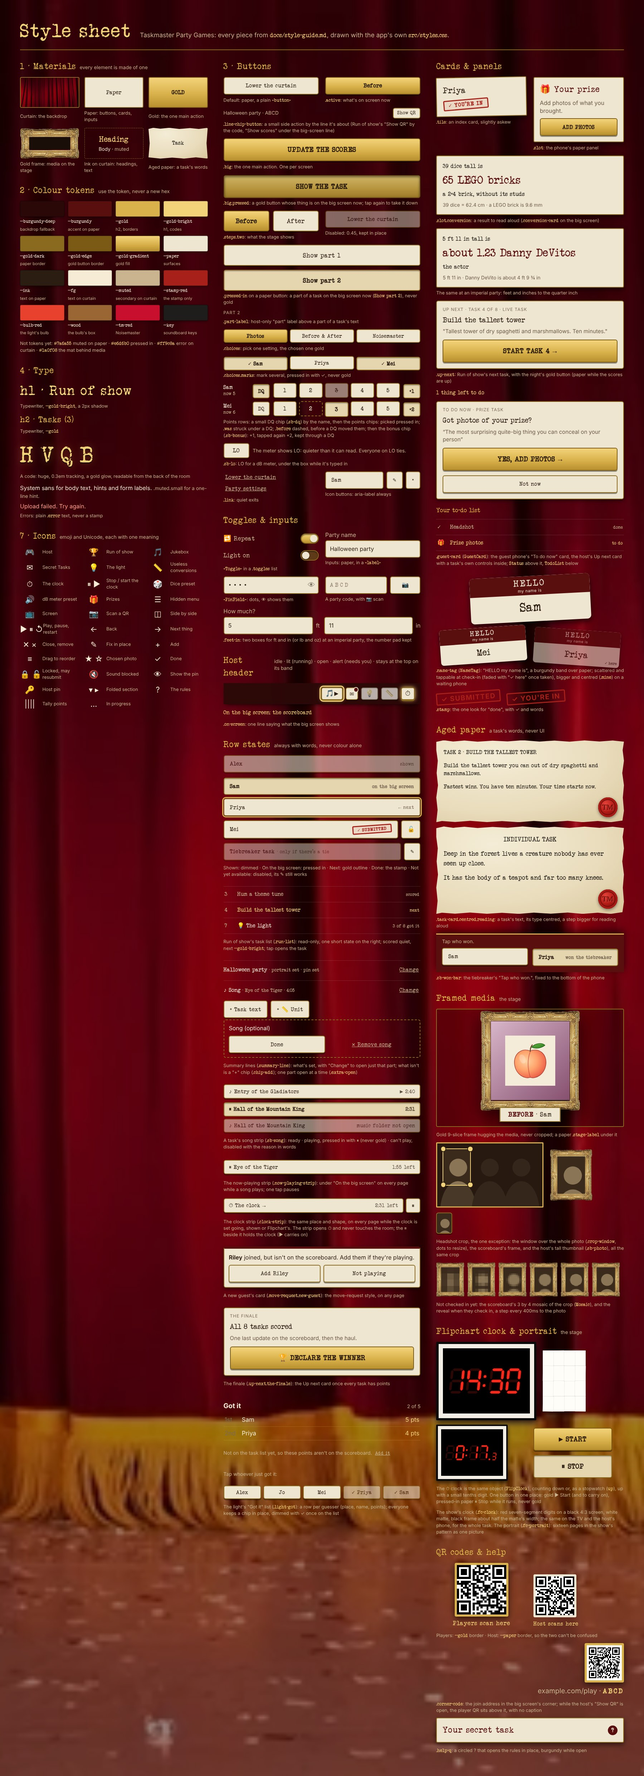
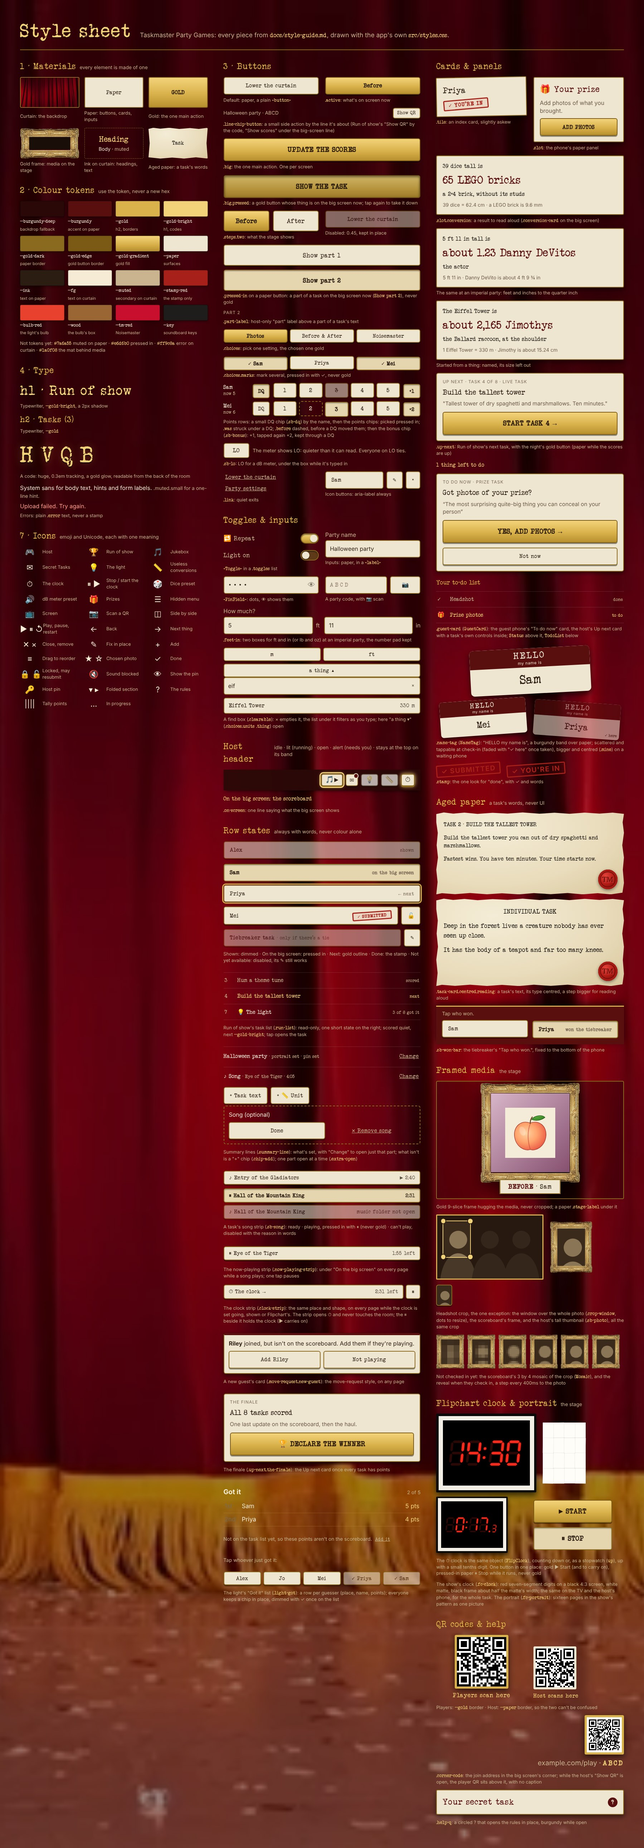
Useless conversions: start from a thing, found by typing
"a thing ▾" under the units opens a find box and the kind's useless units, each with its size. Picking one makes
"How much?" a count, and the card names it without its size: "The Eiffel Tower is / about 2,165 Jimothys". A thing is
never converted into itself. Adds the find box to the style guide and sheet, re-shoots the screens, and parks a find
box for the jukebox as E9 in the backlog.

Claude-Session: https://claude.ai/code/session_01KQobWXFnZT59zibViTWasP

diff --git a/src/conversions/ConverterRemote.tsx b/src/conversions/ConverterRemote.tsx
@@ -3,11 +3,15 @@ import { scored, sorted, titleOf } from "../scoreboard/tasks";
 import { showConversion, store } from "../session";
 import { Toggle } from "../Toggle";
 import type { Session } from "../types";
-import { COMMON, commonFor, feetAndInches, firstUnit, ofSystem, type System, KIND_LABEL, KINDS, matchFor, poundsAndOunces, rank, say, toAnchor, working, type Match } from "./convert";
+import { COMMON, commonFor, feetAndInches, firstUnit, ofSystem, type System, KIND_LABEL, KINDS, matchFor, poundsAndOunces, rank, say, sizeText, toAnchor, working, type Match } from "./convert";
 import { UNITS, type Kind } from "./units";
 
 const UNIT_KEY = "ba.convertUnit";
-type Source = { task: string } | { kind: Kind; unit: string };
+/** A task's unit, a common unit, or a useless unit itself (`thing`, its `many`): "2 Eiffel Towers". */
+type Source = { task: string } | { kind: Kind; unit: string; thing?: string };
+
+/** For finding a thing by name: lower case, without accents, so "timothee" finds Timothée Chalamet. */
+const plain = (s: string) => s.normalize("NFD").replace(/[\u0300-\u036f]/g, "").toLowerCase();
 
 /**
  * The last common unit this phone measured in ("height:cm"), so a run of the same task is one tap each. A unit from
@@ -35,37 +39,44 @@ export function ConverterRemote({ code, session }: { code: string; session: Sess
   };
   const [typed, setTyped] = useState("");
   const [typedIn, setTypedIn] = useState("");
+  // The list of things to start from, and what's typed to find one.
+  const [finding, setFinding] = useState(false);
+  const [find, setFind] = useState("");
 
   const taskUnit = "task" in source ? session.scoreboard?.tasks?.[source.task]?.unit : undefined;
   // A task whose unit was removed falls back to the common units.
   const common = "unit" in source ? source : lastCommon(session.units);
+  const thing = !taskUnit && "thing" in source ? UNITS[common.kind].find((u) => u.many === source.thing) : undefined;
   // At an imperial party, feet come with an inches box (5 ft 11 in, the way a height is said: a phone's number pad has
   // no ' or "), and pounds with an ounces box (1 lb 8 oz).
-  const split = session.units !== "imperial" || taskUnit ? undefined
+  const split = session.units !== "imperial" || taskUnit || thing ? undefined
     : common.unit === "ft" ? { small: "in", per: 12, hint: ["5", "11"] } : common.unit === "lb" ? { small: "oz", per: 16, hint: ["1", "8"] } : undefined;
   const amount = Number(typed.replace(",", ".")) + (split ? Number(typedIn.replace(",", ".")) / split.per : 0);
   const kind: Kind = taskUnit?.kind ?? common.kind;
   // Abbreviations read the same for any number ("2 kg"); "cup" is the one word among them.
-  const label = taskUnit?.name ?? (common.unit === "cup" && amount !== 1 ? "cups" : common.unit);
-  const anchor = taskUnit ? toAnchor(amount * taskUnit.amount, taskUnit.unit) : toAnchor(amount, common.unit);
+  const label = thing ? (amount === 1 ? thing.one : thing.many) : taskUnit?.name ?? (common.unit === "cup" && amount !== 1 ? "cups" : common.unit);
+  const anchor = thing ? amount * thing.size : taskUnit ? toAnchor(amount * taskUnit.amount, taskUnit.unit) : toAnchor(amount, common.unit);
   const ready = (typed.trim() !== "" || (!!split && typedIn.trim() !== "")) && amount > 0 && isFinite(anchor);
 
   // Each "Surprise me" steps down the ranking; a new measurement starts it again.
-  const key = `${kind}:${anchor}`;
-  const ranked = useMemo(() => (ready ? rank(kind, anchor) : []), [key, ready]);
+  // A thing is never measured in itself ("1 Eiffel Tower is exactly 1 Eiffel Tower").
+  const key = `${kind}:${anchor}:${thing?.many ?? ""}`;
+  const ranked = useMemo(() => (ready ? rank(kind, anchor).filter((m) => m.unit !== thing) : []), [key, ready]);
   const [at, setAt] = useState(-1);
   const [picked, setPicked] = useState<Match>();
   const [choosing, setChoosing] = useState(false);
   useEffect(() => { setAt(-1); setPicked(undefined); setChoosing(false); }, [key]);
   const match = picked ?? ranked[at];
   // Read out in the smaller unit, so 0 ft 8 in is "8 in", and 5 ft 11 in stays "5 ft 11 in".
-  const said = match && (split ? say(kind, amount * split.per, split.small, match, session.units) : say(kind, amount, label, match, session.units));
+  const said = match && (split ? say(kind, amount * split.per, split.small, match, session.units) : say(kind, amount, label, match, session.units, thing));
 
   // While it's on the big screen, the big screen follows the host's result.
   const onScreen = !!session.conversion;
   useEffect(() => {
     if (onScreen && said && (said.main !== session.conversion?.main || said.lead !== session.conversion?.lead)) void showConversion(code, said);
   }, [onScreen, said?.lead, said?.main]);
+
+  const found = UNITS[kind].filter((u) => [u.one, u.many].some((n) => plain(n).includes(plain(find.trim()))));
 
   const surprise = () => { setPicked(undefined); setChoosing(false); setAt((a) => (a + 1) % ranked.length); };
 
@@ -96,10 +107,38 @@ export function ConverterRemote({ code, session }: { code: string; session: Sess
       {/* While a task's unit is in use, the common units stay where they are, dimmed, until one is tapped. */}
       <div className={`choices units${taskUnit ? " idle" : ""}`}>
         {commonFor(kind, session.units).map((u) => {
-          const on = !taskUnit && common.unit === u;
+          const on = !taskUnit && !thing && common.unit === u;
           return <button key={u} className={on ? "active" : ""} aria-pressed={on} onClick={() => setSource({ kind, unit: u })}>{u}</button>;
         })}
+        {/* Or start from a useless unit: its own row, since a name is longer than a unit. */}
+        <button className={`thing${thing ? " active" : ""}`} aria-pressed={!!thing} aria-expanded={finding} onClick={() => setFinding(!finding)}>
+          {thing ? thing.one : "a thing"} {finding ? "▴" : "▾"}
+        </button>
       </div>
+      {finding && (
+        <div className="find-thing">
+          <div className="clearable">
+            <input value={find} onChange={(e) => setFind(e.target.value)} placeholder="Find a thing…" aria-label="Find a thing" enterKeyHint="search" autoFocus />
+            {find && <button type="button" aria-label="Clear find a thing" onClick={() => setFind("")}>×</button>}
+          </div>
+          <ul className="tracklist">
+            {found.map((u) => (
+              <li key={u.many}>
+                <button className={thing === u ? "active" : ""} onClick={() => {
+                  setSource({ kind, unit: common.kind === kind ? common.unit : firstUnit(kind, session.units), thing: u.many });
+                  setTyped("1");
+                  setTypedIn("");
+                  setFinding(false);
+                  setFind("");
+                }}>
+                  <span className="title">{u.one}</span><span className="dur">{sizeText(kind, u, session.units)}</span>
+                </button>
+              </li>
+            ))}
+          </ul>
+          {!found.length && <p className="muted">Nothing called that in {KIND_LABEL[kind].toLowerCase()}.</p>}
+        </div>
+      )}
       {split ? (
         <div className="feet-in">
           <span>How much?</span>
@@ -121,7 +160,7 @@ export function ConverterRemote({ code, session }: { code: string; session: Sess
           <button className="link" aria-expanded={choosing} onClick={() => setChoosing(!choosing)}>Use a different unit {choosing ? "▴" : "▾"}</button>
           {choosing && (
             <ul className="tracklist">
-              {UNITS[kind].map((u) => (
+              {UNITS[kind].filter((u) => u !== thing).map((u) => (
                 <li key={u.many}>
                   <button className={match.unit === u ? "active" : ""} onClick={() => { setPicked(matchFor(u, anchor)); setChoosing(false); }}>{u.many}</button>
                 </li>

diff --git a/src/conversions/convert.ts b/src/conversions/convert.ts
@@ -85,20 +85,23 @@ export const toAnchor = (amount: number, unit: string) => unit === "dB" ? soundE
 const num = (n: number, digits = 2) => n.toLocaleString("en-US", { maximumFractionDigits: digits });
 const article = (u: UselessUnit) => u.the ?? (/^[aeiou]/i.test(u.one) ? "an" : "a");
 const withArticle = (u: UselessUnit) => [article(u), u.one].filter(Boolean).join(" ");
+const capital = (s: string) => s.charAt(0).toUpperCase() + s.slice(1);
 const DIMENSION: Record<Kind, string> = { height: "height", length: "length", weight: "weight", time: "length", volume: "volume", loudness: "noise" };
 const ADJECTIVE: Record<Kind, string> = { height: " tall", length: " long", weight: "", time: "", volume: "", loudness: "" };
 /** Two significant figures, for a count worked out from a reading to a tenth of a dB: 2,630.3 conversations is "about 2,600". */
 const rough = (n: number) => num(Number(n.toPrecision(2)), 2);
 
 /** The three lines the host reads out, and the big screen shows: "39 dice tall is" / "4 dollar bills" / "the long side". */
-export function say(kind: Kind, amount: number, inUnit: string, m: Match, system: System = "metric"): ShownConversion {
+export function say(kind: Kind, amount: number, inUnit: string, m: Match, system: System = "metric", from?: UselessUnit): ShownConversion {
   // At an imperial party, 5.5 ft or 66 in is read the way it's said: "5 ft 6 in tall is". Under a foot it stays as typed.
   // Weights in lb or oz read like a label, without its total ounces: "10 ½ oz is", "1 lb 8 oz is", "5.25 lb is".
   const imperial = system === "imperial" && ANCHOR[inUnit] !== undefined;
   const length = imperial && (inUnit === "ft" || inUnit === "in") && amount * ANCHOR[inUnit]! >= ANCHOR.ft!;
   const weight = imperial && (inUnit === "lb" || inUnit === "oz");
   const typed = length ? feetAndInches(amount * ANCHOR[inUnit]!) : weight ? poundsAndOunces(amount * ANCHOR[inUnit]!, false) : `${num(amount)} ${inUnit}`;
-  const lead = `${typed}${ADJECTIVE[kind]} is`;
+  // Started from a thing, the thing is named and its size left out, so the number doesn't spoil the joke:
+  // "The Eiffel Tower is", "2 Eiffel Towers are".
+  const lead = from ? (amount === 1 ? `${capital(withArticle(from))} is` : `${num(amount)} ${from.many} are`) : `${typed}${ADJECTIVE[kind]} is`;
   const u = m.unit;
   // Sounds are always "about" (see `sounds`): so many of them going at once, or a fraction of one.
   if (kind === "loudness") {
@@ -165,27 +168,33 @@ export function poundsAndOunces(g: number, dual = true): string {
   return dual ? `${ounces(quarters)} oz (${split})` : split;
 }
 
-/** The working, for the host: "39 dice = 62.4 cm · a dollar bill is 15.6 cm", or in imperial "39 dice = 2 ft ½ in · a dollar bill is 6 ¼ in". */
-export function working(kind: Kind, anchor: number, inLabel: string, m: Match, system: System = "metric"): string {
-  if (kind === "loudness") return `${inLabel} · ${withArticle(m.unit)} is about ${num(10 * Math.log10(m.unit.size), 1)} dB`;
-  const imperial = (a: number) => {
+/** An amount in a kind's anchor, the way the host reads it: "62.4 cm", "1.5 kg", "2 hr", or in imperial "2 ft ½ in". */
+export function amountText(kind: Kind, a: number, system: System = "metric"): string {
+  if (system === "imperial" && kind !== "time") {
     if (kind === "weight") return poundsAndOunces(a);
     if (kind === "volume") {
       const gal = a / ANCHOR.gal!, cups = a / ANCHOR.cup!;
       return gal >= 1e9 ? `${num(a / 4.168181825e15)} cubic miles` : gal >= 1 ? `${num(gal)} gal` : cups >= 1 ? `${num(cups)} ${cups === 1 ? "cup" : "cups"}` : `${num(a / ANCHOR["fl oz"]!, 3)} fl oz`;
     }
     return feetAndInches(a);
-  };
-  const show = (a: number) => {
-    if (system === "imperial" && kind !== "time") return imperial(a);
-    if (kind === "weight") return a >= 1e6 ? `${num(a / 1e6)} t` : a >= 1000 ? `${num(a / 1000)} kg` : `${num(a, 3)} g`;
-    if (kind === "time") {
-      const yr = ANCHOR.yr!, d = ANCHOR.d!;
-      return a >= yr ? `${num(a / yr)} years` : a >= d ? `${num(a / d)} days` : a >= 3600 ? `${num(a / 3600)} hr` : a >= 60 ? `${num(a / 60)} min` : `${num(a, 3)} sec`;
-    }
-    if (kind === "volume") return a >= 1e15 ? `${num(a / 1e15)} km³` : a >= 1e6 ? `${num(a / 1e6)} m³` : a >= 1000 ? `${num(a / 1000)} L` : `${num(a, 3)} ml`;
-    return a >= 1e6 ? `${num(a / 1e6)} km` : a >= 1000 ? `${num(a / 1000)} m` : a >= 10 ? `${num(a / 10)} cm` : `${num(a, 3)} mm`;
-  };
+  }
+  if (kind === "weight") return a >= 1e6 ? `${num(a / 1e6)} t` : a >= 1000 ? `${num(a / 1000)} kg` : `${num(a, 3)} g`;
+  if (kind === "time") {
+    const yr = ANCHOR.yr!, d = ANCHOR.d!;
+    return a >= yr ? `${num(a / yr)} years` : a >= d ? `${num(a / d)} days` : a >= 3600 ? `${num(a / 3600)} hr` : a >= 60 ? `${num(a / 60)} min` : `${num(a, 3)} sec`;
+  }
+  if (kind === "volume") return a >= 1e15 ? `${num(a / 1e15)} km³` : a >= 1e6 ? `${num(a / 1e6)} m³` : a >= 1000 ? `${num(a / 1000)} L` : `${num(a, 3)} ml`;
+  return a >= 1e6 ? `${num(a / 1e6)} km` : a >= 1000 ? `${num(a / 1000)} m` : a >= 10 ? `${num(a / 10)} cm` : `${num(a, 3)} mm`;
+}
+
+/** A useless unit's own size, for the list it's picked from: "330 m", "about 15.24 cm", "about 88 dB". */
+export const sizeText = (kind: Kind, u: UselessUnit, system: System = "metric") =>
+  kind === "loudness" ? `about ${num(10 * Math.log10(u.size), 1)} dB` : `${u.about ? "about " : ""}${amountText(kind, u.size, system)}`;
+
+/** The working, for the host: "39 dice = 62.4 cm · a dollar bill is 15.6 cm", or in imperial "39 dice = 2 ft ½ in · a dollar bill is 6 ¼ in". */
+export function working(kind: Kind, anchor: number, inLabel: string, m: Match, system: System = "metric"): string {
+  if (kind === "loudness") return `${inLabel} · ${withArticle(m.unit)} is ${sizeText(kind, m.unit)}`;
+  const show = (a: number) => amountText(kind, a, system);
   // Typed as it's shown ("5 ft 11 in"), there's nothing to convert.
   const measured = inLabel === show(anchor) ? inLabel : `${inLabel} = ${show(anchor)}`;
   return `${measured} · ${withArticle(m.unit)} is ${m.unit.about ? "about " : ""}${show(m.unit.size)}`;

diff --git a/docs/style-sheet/sheet.tsx b/docs/style-sheet/sheet.tsx
@@ -135,6 +135,7 @@ function Sheet() {
               <Item cap="A party code, with 📷 scan"><div className="row resume" style={{ marginTop: 0, display: "flex" }}><input defaultValue="" placeholder="ABCD" maxLength={4} /><button aria-label="Scan">📷</button></div></Item>
             </div>
             <Item cap={<><code>.feet-in</code>: two boxes for ft and in (or lb and oz) at an imperial party, the number pad kept</>}><div className="converter"><div className="feet-in"><span>How much?</span><label><input inputMode="decimal" defaultValue="5" /> ft</label><label><input inputMode="decimal" defaultValue="11" /> in</label></div></div></Item>
+            <Item cap={<>A find box (<code>.clearable</code>): × empties it, the list under it filters as you type; here "a thing ▾" (<code>.choices.units .thing</code>) open</>}><div className="converter"><div className="choices units"><button>m</button><button>ft</button><button className="thing" aria-expanded>a thing ▴</button></div><div className="find-thing"><div className="clearable"><input defaultValue="eif" aria-label="Find a thing" /><button type="button" aria-label="Clear find a thing">×</button></div><ul className="tracklist"><li><button><span className="title">Eiffel Tower</span><span className="dur">330 m</span></button></li></ul></div></div></Item>
           </Sec>
           <Sec title="Host header" note="idle · lit (running) · open · alert (needs you) · stays at the top on its band">
             <div className="mini-phone phone host" style={{ padding: 0, margin: 0 }}>
@@ -210,6 +211,7 @@ function Sheet() {
             </div>
             <Item cap={<><code>.slot.conversion</code>: a result to read aloud (<code>.conversion-card</code> on the big screen)</>}><div className="slot conversion"><p className="lead">39 dice tall is</p><p className="main">65 LEGO bricks</p><p className="lead">a 2×4 brick, without its studs</p><p className="small">39 dice = 62.4 cm · a LEGO brick is 9.6 mm</p></div></Item>
             <Item cap={<>The same at an imperial party: feet and inches to the quarter inch</>}><div className="slot conversion"><p className="lead">5 ft 11 in tall is</p><p className="main">about 1.23 Danny DeVitos</p><p className="lead">the actor</p><p className="small">5 ft 11 in · Danny DeVito is about 4 ft 9 ¾ in</p></div></Item>
+            <Item cap={<>Started from a thing: named, its size left out</>}><div className="slot conversion"><p className="lead">The Eiffel Tower is</p><p className="main">about 2,165 Jimothys</p><p className="lead">the Ballard raccoon, at the shoulder</p><p className="small">1 Eiffel Tower = 330 m · Jimothy is about 15.24 cm</p></div></Item>
             <Item cap={<><code>.up-next</code>: Run of show's next task, with the night's gold button (paper while the scores are up)</>}>
               <section className="up-next">
                 <p className="up-next-label">Up next · task 4 of 8 · live task</p>

diff --git a/docs/guest-shots/shots.tsx b/docs/guest-shots/shots.tsx
@@ -185,6 +185,9 @@ function build() {
       break;
     case "host-reset": picked(); set("begun", true); Object.assign(tasks.t1 as object, { scores: { alex: 4, greg: 2, mei: 3, priya: 5, sam: 3, tom: 1 } }); break;
     case "host-onepart": set("begun", true); break;
+    // 📏 started from a thing: the Eiffel Tower in Jimothys
+    case "host-convert": set("begun", true); break;
+    case "tv-convert": set("conversion", { lead: "The Eiffel Tower is", main: "about 2,165 Jimothys", how: "the Ballard raccoon, at the shoulder" }); set("begun", true); break;
     case "host-onepart-up": set("display", { step: "tasktext", task: "t7" }); set("begun", true); break;
     // Flipchart: before the clock starts (words and the front page), mid-drawing (page 7 of Sam's, see below), on the last page asking to send, sent;
     // on the big screen the clock, one finished portrait, and everyone's; on the host's phone before the start and while it runs, and its ✎ page.

diff --git a/src/styles.css b/src/styles.css
@@ -1219,6 +1219,8 @@ button.help-q:active { transform: none; box-shadow: none; }
 /* the five kinds sit three and two, never four and a lone one; a unit ("fl oz") never breaks over two lines */
 .converter .choices.kinds button { flex-basis: 5.5rem; }
 .converter .choices.units button { flex-basis: 3rem; white-space: nowrap; }
+.converter .choices.units button.thing { flex-basis: 100%; }
+.converter .find-thing { display: grid; gap: 0.5rem; }
 .converter .feet-in { display: grid; grid-template-columns: 1fr 1fr; gap: 0.3rem 0.8rem; }
 .converter .feet-in > span { grid-column: 1 / -1; color: var(--muted); }
 .converter .feet-in label { display: grid; grid-template-columns: 1fr auto; gap: 0.5rem; align-items: center; }

diff --git a/docs/style-guide.md b/docs/style-guide.md
@@ -87,7 +87,7 @@ Any on/off setting is a **switch**, not a button whose label flips between "Show
 See: [host-party-settings.jpg](screens/host-party-settings.jpg) (the night-of switches).
 
 ### Inputs
-Paper background, `--gold-dark` border, 6px radius, full width. Wrap them in a `<label>`: labels are a grid with `--muted` text above the field. Pin inputs are `<PinField>` (`src/HostPin.tsx`): typewriter digits with 0.3em tracking and a 👁 inside the field's right end that shows them; hidden as dots by default, except while choosing a new pin. Party-code inputs use the typewriter font with wide letter spacing (`0.3em`), uppercase, `maxLength={4}`, `placeholder="ABCD"`, plus a 📷 scan button beside them in a `.row`.
+Paper background, `--gold-dark` border, 6px radius, full width. Wrap them in a `<label>`: labels are a grid with `--muted` text above the field. A find box (`.clearable` around the input) has a × at its right end that empties it, and filters the list under it as you type, ignoring case and accents ("Find a thing…"; the useless units, from "a thing ▾"). Pin inputs are `<PinField>` (`src/HostPin.tsx`): typewriter digits with 0.3em tracking and a 👁 inside the field's right end that shows them; hidden as dots by default, except while choosing a new pin. Party-code inputs use the typewriter font with wide letter spacing (`0.3em`), uppercase, `maxLength={4}`, `placeholder="ABCD"`, plus a 📷 scan button beside them in a `.row`.
 
 See: [host-pin-connect.jpg](screens/host-pin-connect.jpg) (pin), [guest-join-code.jpg](screens/guest-join-code.jpg) (party code).
 
@@ -201,6 +201,7 @@ See: [guest-home-waiting.jpg](screens/guest-home-waiting.jpg), [guest-home-prize
 - **Clock strip** (`.clock-strip`, in `OnScreen`): while the ⏱ clock is set going, shown on the big screen or Flipchart's, under the "On the big screen" line of every page (not on ⏱ itself, nor Flipchart's own task page, which has its clock): the song strip's shape, "⏱ The clock →" and "2:31 left" ("held · 1:12 left", "ready · 3:00", "time's up", a stopwatch's "0:17.3"). The strip opens ⏱ and never changes what the room sees, so a stray tap is harmless. A separate ⏸ beside it holds the clock (▶ carries on).
 - **⏱ The clock** (`ClockRemote.tsx`): top to bottom, a paper "Show the clock" (pressed in while it's on the big screen, never gold: the host may show it before starting it, and the clock replaces whatever was up until the host puts something else up), "Count down · Stopwatch" (`.choices.two.marks`, locked once it has started), then for a countdown "From task 6, Dice tower" with the task's time limits read from its words, a part each, each with the sentence it came from (the part on the big screen is picked to start with), "Or any time" (1, 2, 5 and 10 min) and "Your own" in min and sec boxes (`.feet-in`, no colon on a phone's number pad), a "♪ Ends on: …" summary line (or "+ Song to end on") that starts a song on the main screen when the time left is its length (a longer song starts with the clock and plays on past 0:00), the clock, and **one button in one place**: gold "▶ Start" (and to carry on), pressed-in paper "⏸ Stop" while it runs (the song pauses with it). Quiet links under it: "+1 minute" (the song plays on) and "Reset". The time chips lock, dimmed, once it has started. A stopwatch swaps the times for contestant chips: the first tap with everyone going picks just that one, then each tap adds or takes away ("Everyone" picks them all again); while it runs a tap takes that contestant's time (it stays on their chip), a tap on a timed chip takes it back, and the clock stops itself when everyone going has one. Times go into a lowest-wins live task's results, in seconds; with no such task they stay on the page. The clock is never on guest phones. Flipchart's clock, while it runs, is the clock in the party: ⏱ shows it, read-only. See: [clock-host-set.jpg](screens/clock-host-set.jpg), [clock-host-song.jpg](screens/clock-host-song.jpg), [clock-host-running.jpg](screens/clock-host-running.jpg), [clock-host-task.jpg](screens/clock-host-task.jpg), [clock-host-stopwatch.jpg](screens/clock-host-stopwatch.jpg), [clock-host-flipchart.jpg](screens/clock-host-flipchart.jpg), [clock-main-countdown.jpg](screens/clock-main-countdown.jpg), [clock-main-stopwatch.jpg](screens/clock-main-stopwatch.jpg).
 - **📏 Useless conversions** (`ConverterRemote.tsx`): top to bottom, a task's units (if any), the kinds, that kind's units, then "How much?" and gold "Surprise me", so the box follows the unit picked. At an imperial party a kind's US units come first (in ft mm cm m), each kind opens on ft, lb or cups, and ft or lb gets two boxes, ft and in or lb and oz (`.feet-in`), because a phone's number pad has no ' or ". The phone's remembered unit only counts if it's from the party's system. See: [converter-host-imperial-first.jpg](screens/converter-host-imperial-first.jpg).
+  - **Start from a thing**: after the units, a full-width "a thing ▾" chip (`.choices.units .thing`) opens a find box and that kind's useless units, each with its size on the right ("Eiffel Tower · 330 m"). Picking one shows its name on the chip, and "How much?" becomes a count (1 to start). The card names it and leaves its size out, since the number spoils the joke: "The Eiffel Tower is", "2 Eiffel Towers are". A thing is never converted into itself. See: [converter-host-find-thing.jpg](screens/converter-host-find-thing.jpg), [converter-host-thing.jpg](screens/converter-host-thing.jpg), [converter-main-jimothy.jpg](screens/converter-main-jimothy.jpg).
 - **Read it out** (`ReadOut.tsx`): a quiet "📏 Read it out" under a measured task's points. It opens contestant chips (whoever's number was typed last is picked), the useless-conversion card with "Surprise me again", and a paper "Show on the big screen" that is pressed in ("On the big screen · Jordan") while it's up. Picking another contestant while it's up swaps the big screen to theirs.
 - **Home is the run of show** (`RunOfShow.tsx`). Every party opens on it, and it's for running the night, not building it. Top to bottom:
   1. `Run of show` heading, then the party line ("Halloween party · ABCD", small and muted) with a small paper **"Show QR"** chip at its right, then one `.on-screen` line saying what the big screen shows ("On the big screen: the curtain", "…: the scores, before Photos: best costume", "…: not connected yet"), with a small paper **"Show scores"** chip under it, left-aligned, while the scores, the haul and the winner aren't up. Then at most one `.muted.small` line. Both are **line chips** (`.line-chip-button`): side actions that change the big screen, so they sit by the line they're about, small, never gold and never full width. "Show scores" goes under its line, not beside it, because that line runs long. They're not in the header: its icons open a page, and these act the moment they're tapped. See: [run-of-show-host.jpg](screens/run-of-show-host.jpg).

diff --git a/docs/screens/README.md b/docs/screens/README.md
@@ -94,7 +94,7 @@ Main screen (`/`, 1600×900):
 | `converter-main-whole.jpg` | A useless conversion on the big screen (2026-10-15): "39 dice tall is / 65 LEGO bricks / a 2×4 brick, without its studs" on a paper card |
 | `converter-main-loudness.jpg` | A sound on the big screen: "94.2 dB is / about 26 garbage disposals at once / at the sink" (2026-10-17) |
 | `converter-main-fraction.jpg` | The same with a fraction: "exactly 1/300 the height of Big Ben" |
-| `converter-main-jimothy.jpg` | Jimothy on the big screen: the Eiffel Tower's height typed in, "330 m tall is / about 2,165 Jimothys / the Ballard raccoon, at the shoulder" (2026-10-21) |
+| `converter-main-jimothy.jpg` | Started from a thing (2026-10-21): "The Eiffel Tower is / about 2,165 Jimothys / the Ballard raccoon, at the shoulder", the thing named and its 330 m left out |
 | `main-hidden-menu.jpg` | The ☰ Menu in the top-left corner, open |
 | `main-curtain-join-qr.jpg` | The curtain while the host remote's "Show QR code" is open: the join QR in the bottom-right corner, above the address (taken 2026-10-13, stand-in portrait) |
 
@@ -181,6 +181,8 @@ Scoreboard (taken on 2026-10-12, from the real components with made-up sessions;
 | `converter-host-imperial-first.jpg` | At an imperial party (2026-10-18): the units above "How much?", "in ft mm cm m", opening on ft with its two boxes, ft and in, even on a phone that last used cm |
 | `converter-host-feet-inches.jpg` | 5 ft 11 in typed in the two boxes: "5 ft 11 in tall is / about 1.23 Danny DeVitos" and "5 ft 11 in · Danny DeVito is about 4 ft 9 ¾ in" (2026-10-18) |
 | `converter-host-pounds-ounces.jpg` | 1 lb 8 oz: "1 lb 8 oz is / 1.82 pounds of gold" and the label-style "24 oz (1 lb 8 oz) · a pound of gold is 13 ¼ oz" (2026-10-18) |
+| `converter-host-find-thing.jpg` | "a thing ▴" open under the units (2026-10-21): "Find a thing…" with "eif" typed, leaving Eiffel Tower · 330 m |
+| `converter-host-thing.jpg` | The Eiffel Tower picked as the starting thing, "How much?" a count (1), and Jimothys chosen from "Use a different unit": "The Eiffel Tower is / about 2,165 Jimothys" and "1 Eiffel Tower = 330 m · Jimothy is about 15.24 cm" (2026-10-21) |
 | `converter-host-dice-imperial.jpg` | A task's unit at an imperial party: "39 dice tall is / 5.11 soda cans" and "39 dice = 2 ft ½ in · a soda can is 4 ¾ in" (2026-10-18) |
 | `host-party-units.jpg` | Plan the party's summary line open: "… · pin set · imperial", and "📏 Conversions in" with Metric and Imperial (2026-10-18) |
 | `converter-host-on-screen.jpg` | The result on the big screen: the toggle on, 📏 glowing in the header |

diff --git a/docs/backlog.md b/docs/backlog.md
@@ -90,6 +90,11 @@ Status: nothing here is fixed yet. Notes under each item are initial diagnosis o
 - **Open questions:** where it's entered (Party settings, or the converter itself); whether it stays on the host's phone only (the safer default for a birthdate) or goes in the session so the big screen can show it; whether "the Taskmaster" is the host's name or always the title.
 - **Related:** the unit list draft in the project's shared files (`useless-conversions/units.md`).
 
+### E9. Find a song in the jukebox by typing (idea, not designed yet)
+- The 🎵 jukebox's song list is one long scroll. Give it the same find box as the converter's "a thing ▾" list (`.clearable`, filtering as you type, ignoring case and accents), so a song you know by name is a few letters away.
+- **Open questions:** whether it also matches the artist; whether it's always there or only past a certain number of songs; whether the Plan-the-party "♪ Song" picker (`.sb-song-field`) gets it too.
+- **Related:** the converter's find box (`ConverterRemote.tsx`), Jeffrey's ask in the "Jimothy in height conversions" thread (2026-10-21).
+
 ### E8. Export and import whole party configurations (built 2026-10-18: Export and Import)
 Settled with Jeffrey in a pair-design thread; the working notes (scenarios, rejected ideas) are in the project's `export-import/framing.md`.
 
